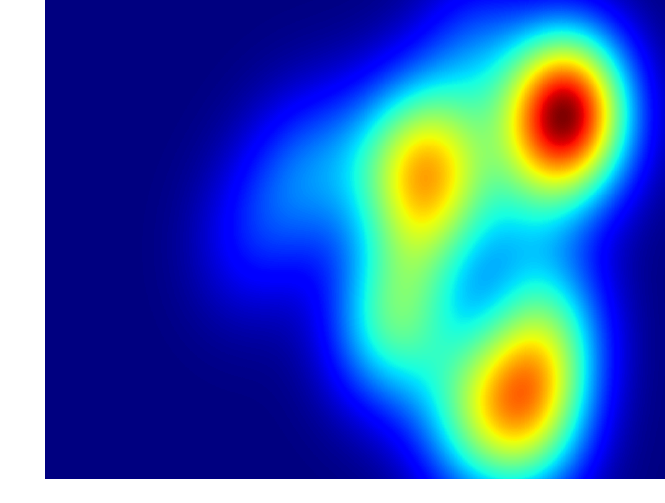
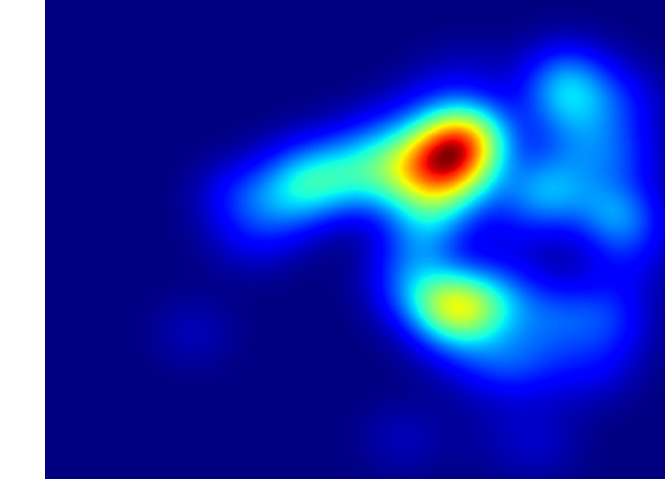
Real test results added.

diff --git a/iqp.py b/iqp.py
@@ -65,11 +65,11 @@ def cluster_map(data, n_clusters, output_img, base_img):
     kmeans_data = data
     kmeans.fit(kmeans_data)
     for x, y in data:
-        cv2.circle(output_img, (int(y), int(x)), 4, (0, 0, 255), -1)
+        cv2.circle(output_img, (int(y), int(x)), 2, (0, 0, 200), -1)
     cv2.imwrite(RAW_VISUAL_FILE, output_img - base_img)
     cv2.imwrite(MAP_VISUAL_FILE, output_img)
     for x, y in kmeans.cluster_centers_:
-        cv2.circle(output_img, (int(y), int(x)), 10, (255, 150, 0), -1)
+        cv2.circle(output_img, (int(y), int(x)), 12, (0, 0, 255), -1)
     cv2.imwrite(RAW_CLUSTERS_FILE, output_img - base_img)
     cv2.imwrite(MAP_CLUSTERS_FILE, output_img)
 
